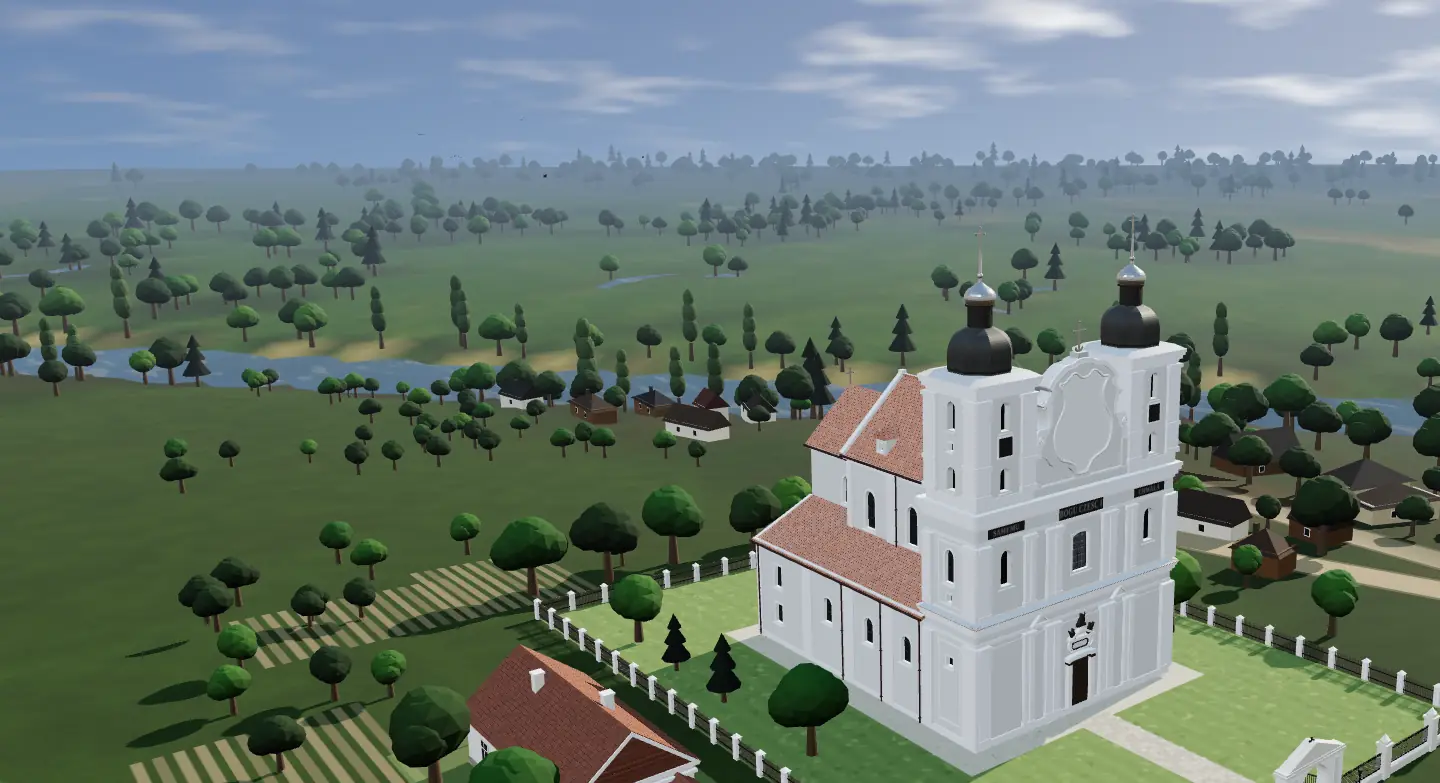
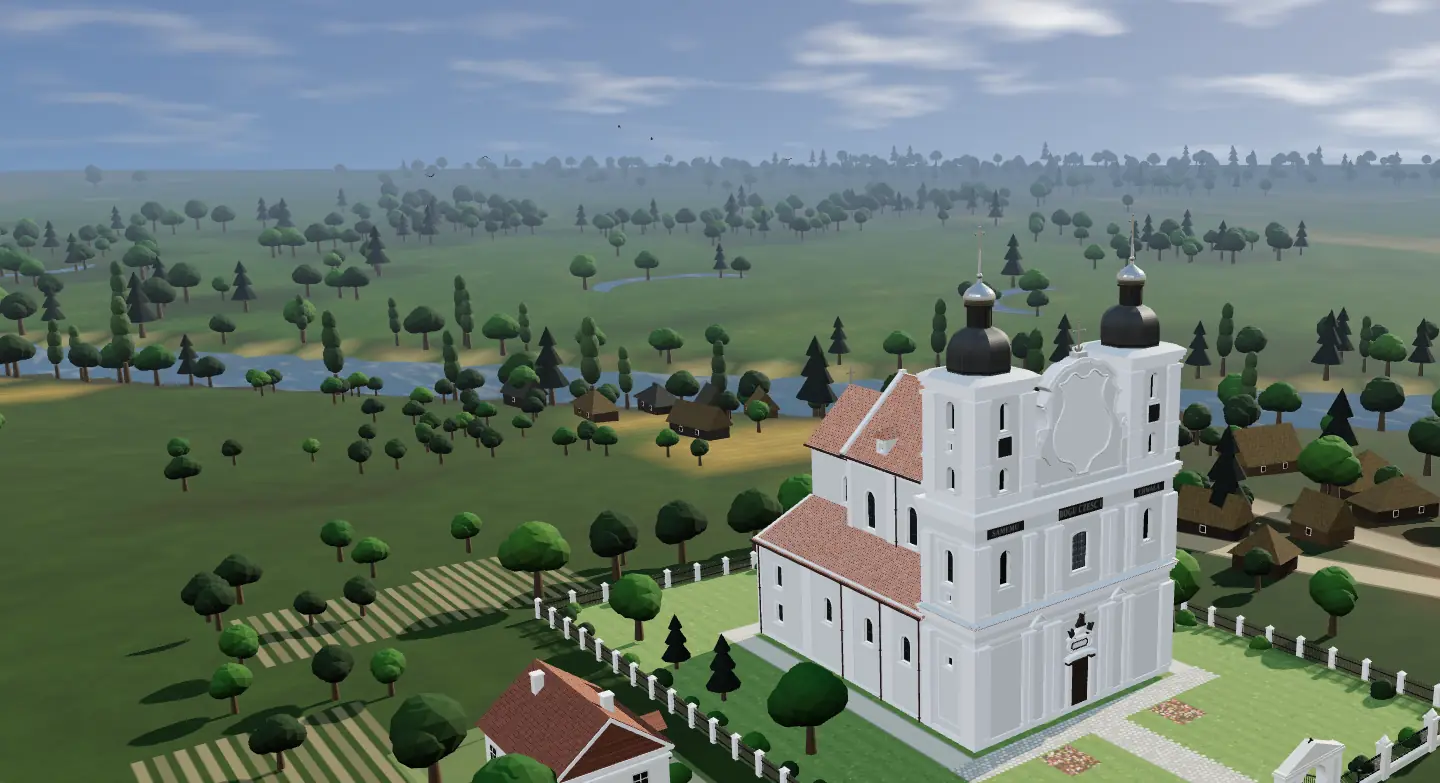
Херо костелу: плавна Горинь, став на ділянці, поля, поліські дерев'яні хати під стріхою, будинок дяка коротший з ганком до костелу, детально промальовані цвинтар і бруківка площі, кущі
Claude-Session: https://claude.ai/code/session_015E5VkhKKERkWtXctkqCkmF

diff --git a/hero-kostel.js b/hero-kostel.js
@@ -32,9 +32,7 @@ function attach(api, o){
     if ((a[1] > z) !== (b[1] > z) && x < (b[0] - a[0])*(z - a[1])/(b[1] - a[1]) + a[0]) c = !c; } return c; }
   /* the Horyn: its middle line from the plan, carried on beyond it both ways */
   var RIV = (function(){
-    var raw = [[-560, 1080], [-330, 1000], [-120, 900], [60, 790], [200, 712], [330, 650], [420, 600], [470, 558], [518.7, 522], [572, 494.6], [625, 466.5], [678.8, 439.4], [733, 413],
-      [787, 386.8], [841, 360], [895, 333], [946.6, 302.7], [997.7, 271], [1048, 239], [1090, 218], [1140, 196], [1180, 172], [1215, 118], [1250, 66], [1300, 22],
-      [1370, -30], [1460, -70], [1570, -90], [1700, -140], [1830, -230], [1960, -300], [2120, -330]];
+    var raw = [[-700, 1120], [-250, 960], [160, 760], [470, 558], [730, 414], [1000, 270], [1250, 95], [1520, -40], [1880, -170], [2300, -230]];   // the plan's line, smoothed
     var P = raw.map(function(p){ return MP(p[0], p[1]); });
     var c = new T.CatmullRomCurve3(P.map(function(p){ return new T.Vector3(p[0], 0, p[1]); }), false, 'centripetal');
     return c.getSpacedPoints(260).map(function(v){ return [v.x, v.z]; });
@@ -54,6 +52,9 @@ function attach(api, o){
   var OXB = [[MP(1300, 300), 34, 2.2, 5.0], [MP(900, 760), 30, 3.4, 6.1], [MP(1500, 420), 26, .2, 3.3], [MP(600, 900), 28, 2.6, 5.6]];
   function oxDist(x, z){ var m = 1e9; OXB.forEach(function(o){ var dx = x - o[0][0], dz = z - o[0][1], a = Math.atan2(dz, dx); if (a < o[2]) a += 6.283;
     if (a > o[2] && a < o[3] || a - 6.283 > o[2] && a - 6.283 < o[3]) m = Math.min(m, Math.abs(Math.hypot(dx, dz) - o[1])); }); return m; }
+  var POND = {x: -28, z: -115, a: 15, b: 4.6};                                       // the pond in the church plot, with a bank of dug earth round it
+  function pondQ(x, z){ return Math.hypot((x - POND.x)/POND.a, (z - POND.z)/POND.b); }
+  function townField(x, z){ return !inPoly(PLOT, x, z) && z < -40 && x > -150 && x < 60 && rivNear(x, z).d - RW/2 > 28; }   // strip fields between the plot and the bank
   function H(x, z){
     var R = rivNear(x, z), e = R.d - RW/2, r = Math.hypot(x - GX, z - GZ), h;
     if (R.side === TOWN){
@@ -64,6 +65,7 @@ function attach(api, o){
       var od = oxDist(x, z); if (od < 12) h -= 1.9*(1 - ss(3, 10, od));
     }
     if (R.d < RW/2 + 2) h = Math.min(h, PL - 2.8*(1 - ss(RW/2 - 9, RW/2 + 1, R.d)));  // the river bed
+    var pq = pondQ(x, z); if (pq < 2.2) h += .7*Math.exp(-Math.pow((pq - 1.35)*3, 2)) - 1.6*(1 - ss(.75, 1.1, pq));
     return h;
   }
   /* the plan's zones: the church plot (gardens and orchard), the yard, the small square, the streets */
@@ -76,7 +78,7 @@ function attach(api, o){
     poly([[64, 0], [80, -120], [96, -300]]), poly([[24.5, 200], [-120, 180], [-300, 160]]), poly([[-6, 420], [-180, 470], [-360, 520]])];
   function roadD(x, z){ var m = 1e9; ROADS.forEach(function(R){ for (var i = 1; i < R.length; i++){ var a = R[i - 1], b = R[i], dx = b[0] - a[0], dz = b[1] - a[1], L = dx*dx + dz*dz,
     k = Math.max(0, Math.min(1, ((x - a[0])*dx + (z - a[1])*dz)/L)); m = Math.min(m, Math.hypot(a[0] + dx*k - x, a[1] + dz*k - z)); } }); return m; }
-  var PLEB = {x: -36, z: -15, len: 18, wid: 9};                                       // beside the church on the north, its long side parallel to it
+  var PLEB = {x: -36, z: -15, len: 12, wid: 8.5};                                    // the sexton's house beside the church on the north, long side parallel to it, porch toward the church
   function keepClear(x, z, m){ m = m || 0;
     return (x > YARD.x0 - 5 - m && x < YARD.x1 + 5 + m && z > YARD.z0 - 6 - m && z < YARD.z1 + 4 + m) || inPoly(SQ, x, z) ||
       (x > PLEB.x - PLEB.wid/2 - 6 - m && x < PLEB.x + PLEB.wid/2 + 5 + m && z > PLEB.z - PLEB.len/2 - 5 - m && z < PLEB.z + PLEB.len/2 + 7 + m); }
@@ -118,14 +120,15 @@ function attach(api, o){
       if (oxDist(x, z) < 12) f = Math.max(f, .6);
       if (e > 640) f = Math.max(f, .85*ss(640, 720, e));                              // the woods on the horizon
     }
-    if (roadD(x, z) < 5 || keepClear(x, z, 3)) f = 0;
+    var rd = roadD(x, z); if (R.side === TOWN && rd > 5 && rd < 10 && Math.hypot(x - GX, z - GZ) < 320) f = Math.max(f, .45);   // trees along the lanes
+    if (rd < 5 || keepClear(x, z, 3) || pondQ(x, z) < 1.7 || (R.side === TOWN && townField(x, z))) f = 0;
     return Math.min(1, f);
   }
 
   /* ── terrain mesh with painted zones ── */
-  var SIZE = 2400, SEG = lite ? 160 : 260, CX = 100, CZ = -200;
+  var SIZE = 2400, SEG = lite ? 200 : 340, CX = 100, CZ = -200;
   var tg = new T.PlaneGeometry(SIZE, SIZE, SEG, SEG); tg.rotateX(-Math.PI/2); tg.translate(CX, 0, CZ);
-  var tp = tg.attributes.position, col = new Float32Array(tp.count*3), C = new T.Color();
+  var tp = tg.attributes.position, col = new Float32Array(tp.count*3), fld = new Float32Array(tp.count), C = new T.Color();
   var cTown = lin('#62763a'), cGard = lin('#7a6b47'), cOrch = lin('#6c8040'), cMead = lin('#6f8c3c'), cMeadY = lin('#94983f'), cMud = lin('#6b5f43'), cFloor = lin('#465230'),
       cField = [lin('#a3954f'), lin('#7c8b42'), lin('#b8a462'), lin('#86904a'), lin('#6e7d3d')], cRoad = lin('#8a7652'), cWet = lin('#4a5c33'), cReed = lin('#7f8a4a'), cSand = lin('#c9b78a');
   for (var i = 0; i < tp.count; i++){
@@ -134,36 +137,37 @@ function attach(api, o){
     if (R.side === TOWN){
       C.copy(cTown);
       if (inPoly(PLOT, x, z)) C.copy(cOrch).lerp(cGard, .2*ss(.5, .7, fbm(x*.03, z*.03)));
+      else if (townField(x, z)){ var kf = Math.floor(hash(Math.floor((z + 3000)/14), Math.floor((x + 3000)/90))*5); C.copy(cField[kf]); fld[i] = 1; }
       else if (hash(Math.floor((x + 2000)/24), Math.floor((z + 2000)/30)) > .6 && Math.hypot(x - GX, z - GZ) > 60) C.lerp(cGard, .35);
     } else {
       C.copy(cMead).lerp(cMeadY, ss(.45, .8, n)*.5); C.lerp(cWet, ss(.55, .75, fbm(x*.008 + 20, z*.008 + 4))*.8);
-      if (e > 60 && e < 650 && fbm(x*.004 + 9, z*.004 + 1) > .52){ var k = Math.floor(hash(Math.floor((x + 3000)/26), Math.floor((z + 3000)/120))*5); C.lerp(cField[k], .85); }
+      if (e > 60 && e < 650 && fbm(x*.004 + 9, z*.004 + 1) > .52){ var k = Math.floor(hash(Math.floor((x + 3000)/26), Math.floor((z + 3000)/120))*5); C.lerp(cField[k], .85); fld[i] = 1; }
       C.lerp(cReed, (1 - ss(4, 16, oxDist(x, z)))*.7);
     }
     if (e < 6 && e > -4) C.lerp(R.side === TOWN ? cMud : cSand, .7*(1 - ss(2, 6, e)));
+    var pq2 = pondQ(x, z); if (pq2 < 1.6) C.lerp(cMud, .5*(1 - ss(1.1, 1.6, pq2)));
     var fr = forest(x, z); C.lerp(cFloor, ss(.45, .8, fr)*.6);
     if (roadD(x, z) < 3.4) C.copy(cRoad).multiplyScalar(.92 + .16*n);
     C.multiplyScalar(.86 + .28*n);
     col[i*3] = C.r; col[i*3 + 1] = C.g; col[i*3 + 2] = C.b;
   }
-  tg.setAttribute('color', new T.BufferAttribute(col, 3)); tg.computeVertexNormals();
+  tg.setAttribute('color', new T.BufferAttribute(col, 3)); tg.setAttribute('aField', new T.BufferAttribute(fld, 1)); tg.computeVertexNormals();
   var terrM = new T.MeshStandardMaterial({vertexColors: true, roughness: 1});
   /* surface detail: grass tussocks, bare patches and furrows drawn from world position, fading with distance */
   terrM.userData.noSnow = true;
   terrM.onBeforeCompile = function(sh){
     sh.uniforms.uWSnow = U.uWSnow; sh.uniforms.uAut = U.uAut;
-    sh.vertexShader = sh.vertexShader.replace('#include <common>', '#include <common>\nvarying vec3 vTW;').replace('#include <worldpos_vertex>', '#include <worldpos_vertex>\nvTW = (modelMatrix*vec4(transformed, 1.0)).xyz;');
-    sh.fragmentShader = sh.fragmentShader.replace('#include <common>', '#include <common>\nvarying vec3 vTW;\nuniform float uWSnow, uAut;\nfloat th(vec2 p){ return fract(sin(dot(p, vec2(127.1, 311.7)))*43758.5453); }\nfloat tn(vec2 p){ vec2 i = floor(p), f = fract(p); f = f*f*(3.0 - 2.0*f); return mix(mix(th(i), th(i + vec2(1, 0)), f.x), mix(th(i + vec2(0, 1)), th(i + vec2(1, 1)), f.x), f.y); }')
+    sh.vertexShader = sh.vertexShader.replace('#include <common>', '#include <common>\nvarying vec3 vTW;\nattribute float aField;\nvarying float vField;').replace('#include <worldpos_vertex>', '#include <worldpos_vertex>\nvTW = (modelMatrix*vec4(transformed, 1.0)).xyz; vField = aField;');
+    sh.fragmentShader = sh.fragmentShader.replace('#include <common>', '#include <common>\nvarying vec3 vTW;\nvarying float vField;\nuniform float uWSnow, uAut;\nfloat th(vec2 p){ return fract(sin(dot(p, vec2(127.1, 311.7)))*43758.5453); }\nfloat tn(vec2 p){ vec2 i = floor(p), f = fract(p); f = f*f*(3.0 - 2.0*f); return mix(mix(th(i), th(i + vec2(1, 0)), f.x), mix(th(i + vec2(0, 1)), th(i + vec2(1, 1)), f.x), f.y); }')
       .replace('#include <color_fragment>', ['#include <color_fragment>',
         'float dd = length(vTW - cameraPosition), fd = 1.0 - smoothstep(60.0, 260.0, dd);',
         'float g1 = tn(vTW.xz*1.7), g2 = tn(vTW.xz*6.3 + 3.1), g3 = tn(vTW.xz*.33 + 7.7);',
         'float tuft = (g1*.6 + g2*.4 - .5)*.34*fd + (g3 - .5)*.22;',
         'diffuseColor.rgb *= 1.0 + tuft;',
         'diffuseColor.rgb = mix(diffuseColor.rgb, diffuseColor.rgb*vec3(1.12, 1.05, .78), smoothstep(.62, .82, g3)*.5);',      // drier, yellower patches
-        'float sv = dot(vTW.xz - vec2(0.0, -15.0), vec2(.62, -.785));',
-        'float fur = abs(sin(sv*.9 + tn(vTW.xz*.05)*4.0));',
-        'float field = step(260.0, sv)*step(sv, 800.0);',
-        'diffuseColor.rgb *= mix(1.0, .9 + .14*fur, field*(1.0 - smoothstep(250.0, 700.0, dd)));',      // furrows in the fields
+        'float fur = abs(sin(vTW.z*1.1 + tn(vTW.xz*.05)*4.0));',
+        'float field = smoothstep(.5, .9, vField);',
+        'diffuseColor.rgb *= mix(1.0, .86 + .2*fur, field*(1.0 - smoothstep(250.0, 900.0, dd)));',      // furrows in the fields
         /* autumn: the grass goes to straw and rust; winter: snow lies everywhere but thins in the furrows and under the trees */
         'diffuseColor.rgb = mix(diffuseColor.rgb, diffuseColor.rgb*vec3(1.42, 1.0, .5) + vec3(.014, .004, 0.0), uAut*(.68 + .32*g3));',
         'float snw = uWSnow*smoothstep(.12, .42, g1*.45 + g3*.55 + .12 - field*fur*.12);',
@@ -192,22 +196,9 @@ function attach(api, o){
     K.lineCap = K.lineJoin = 'round';
     ROADS.forEach(function(R){ K.strokeStyle = 'rgba(120,100,70,.5)'; K.lineWidth = 7.4*px; K.beginPath(); R.forEach(function(p, i){ i ? K.lineTo(X(p[0]), Z(p[1])) : K.moveTo(X(p[0]), Z(p[1])); }); K.stroke();
       K.strokeStyle = '#8f7b58'; K.lineWidth = 6*px; K.stroke(); });
-    /* the small square before the gate: trodden earth, cobbles by the gate, wheel ruts */
-    shape(SQ, '#a08d6c'); speck(-18, 22, 19, 50, ['#8c7a5a', '#b5a283', '#7b6a4e', '#c2b190'], 4200, .22, function(x, z){ return inPoly(SQ, x, z); });
-    rect(-7, YARD.z1, 7, YARD.z1 + 6, '#a39985'); speck(-7, YARD.z1, 7, YARD.z1 + 6, ['#b9ae98', '#958a76'], 900, .18);
-    K.strokeStyle = 'rgba(92,76,52,.4)'; K.lineWidth = .32*px;
-    for (var r2 = 0; r2 < 5; r2++){ var zr = 31 + r2*3.6; K.beginPath(); K.moveTo(X(-17), Z(zr + 6)); K.bezierCurveTo(X(-6), Z(zr + 2), X(6), Z(zr - 1), X(18), Z(zr - 4)); K.stroke(); }
-    /* the churchyard: grass, a stone path to the portal, gravel round the church */
-    rect(YARD.x0, YARD.z0, YARD.x1, YARD.z1, '#5d7136');
-    for (var i = 0; i < 26; i++) rect(YARD.x0 + i*(YARD.x1 - YARD.x0)/26, YARD.z0, YARD.x0 + (i + .5)*(YARD.x1 - YARD.x0)/26, YARD.z1, 'rgba(255,255,220,.03)');
-    speck(YARD.x0, YARD.z0, YARD.x1, YARD.z1, ['#4f6430', '#6c8040', '#7a8a48'], 2600, .3);
-    K.fillStyle = '#b3a68c'; K.beginPath(); K.rect(X(-13.4), Z(-32.9), 26.8*px, 35.2*px); K.fill();
-    speck(-13.4, -32.9, 13.4, 2.3, ['#9c907a', '#c6baa0', '#8a7f6a'], 2200, .12);
-    rect(-1.7, 1.5, 1.7, YARD.z1 + .4, '#a39985');
-    for (var zz = 1.6; zz < YARD.z1 + .3; zz += .55) for (var xx = -1.6 + (Math.round(zz/.55) % 2)*.27; xx < 1.6; xx += .55){ K.fillStyle = Math.random() < .5 ? '#b9ae98' : '#958a76'; K.fillRect(X(xx) + 1, Z(zz) + 1, .5*px - 2, .5*px - 2); }
     /* the plebania's yard and the path to its porch */
     rect(PLEB.x - 9, PLEB.z - 14, PLEB.x + 8, PLEB.z + 14, 'rgba(104,120,62,.6)');
-    rect(PLEB.x + 1.6, PLEB.z + PLEB.len/2, PLEB.x + 3.8, YARD.z1 + 6, '#9a8a6c');
+    rect(PLEB.x + PLEB.wid/2 + 1.4, PLEB.z - 1.2, PLEB.x + PLEB.wid/2 + 3.2, YARD.z1 + 6, '#9a8a6c');
     K.save(); K.globalCompositeOperation = 'destination-in';                          // soft outer edge
     var rg = K.createRadialGradient(CW/2, CW/2, CW*.4, CW/2, CW/2, CW*.5); rg.addColorStop(0, '#000'); rg.addColorStop(1, 'rgba(0,0,0,0)'); K.fillStyle = rg; K.fillRect(0, 0, CW, CW); K.restore();
     var g = new T.PlaneGeometry(S, S, N, N); g.rotateX(-Math.PI/2); g.translate(ox, 0, oz);
@@ -246,6 +237,52 @@ function attach(api, o){
       '  #include <encodings_fragment>',
       '}'].join('\n')
   });
+  /* ── the churchyard and the square, finely painted: mown grass darker under the walls and the fence, a paved apron before the
+     facade and a stone path from the gate, gravel walks round the church edged with stones, flower beds by the portal; the square
+     cobbled, worn to earth in the middle where the carts stand ── */
+  (function(){
+    var x0 = -34, x1 = 34, z0 = -58, z1 = 54, CW = lite ? 1536 : 2048, CH = Math.round(CW*(z1 - z0)/(x1 - x0)), cv = document.createElement('canvas'); cv.width = CW; cv.height = CH;
+    var K = cv.getContext('2d'), px = CW/(x1 - x0);
+    function X(x){ return (x - x0)*px; } function Z(z){ return (z - z0)*px; }
+    function rect(a, b, c, d, col){ K.fillStyle = col; K.fillRect(X(a), Z(b), (c - a)*px, (d - b)*px); }
+    function dots(a, b, c, d, cols, n, r, test){ for (var i = 0; i < n; i++){ var x = a + Math.random()*(c - a), z = b + Math.random()*(d - b); if (test && !test(x, z)) continue;
+      K.fillStyle = cols[i % cols.length]; K.globalAlpha = .3 + Math.random()*.5; K.beginPath(); K.ellipse(X(x), Z(z), r*px*(.5 + Math.random()), r*px*(.4 + Math.random()*.6), Math.random()*3, 0, 6.283); K.fill(); } K.globalAlpha = 1; }
+    function stones(a, b, c, d, sz, cols, mortar){ rect(a, b, c, d, mortar);
+      for (var z = b; z < d; z += sz*.9) for (var x = a + (Math.round((z - b)/(sz*.9)) % 2)*sz*.45; x < c; x += sz){
+        K.fillStyle = cols[Math.floor(Math.random()*cols.length)]; K.beginPath(); K.ellipse(X(x + sz*.45), Z(z + sz*.42), sz*.42*px*(.85 + Math.random()*.2), sz*.38*px*(.85 + Math.random()*.2), Math.random(), 0, 6.283); K.fill(); } }
+    /* the square: cobbles, a worn earthen middle with ruts, grass at the edges */
+    K.save(); K.beginPath(); SQ.forEach(function(p, i){ i ? K.lineTo(X(p[0]), Z(p[1])) : K.moveTo(X(p[0]), Z(p[1])); }); K.closePath(); K.clip();
+    stones(-30, 20, 30, 54, .32, ['#a39a88', '#8f8676', '#b3aa96', '#7f786a', '#9c9282'], '#6e665a');
+    var g0 = K.createRadialGradient(X(1), Z(38), 0, X(1), Z(38), 13*px); g0.addColorStop(0, 'rgba(140,118,86,.92)'); g0.addColorStop(.7, 'rgba(140,118,86,.55)'); g0.addColorStop(1, 'rgba(140,118,86,0)');
+    K.fillStyle = g0; K.fillRect(0, 0, CW, CH);
+    K.strokeStyle = 'rgba(80,64,44,.45)'; K.lineWidth = .28*px; [[-1.9, 0], [-.6, 0], [1.4, 1], [2.7, 1]].forEach(function(q){ K.beginPath(); K.moveTo(X(-18), Z(46 + q[0])); K.bezierCurveTo(X(-4), Z(40 + q[0]), X(4), Z(33 + q[0]), X(19), Z(27 + q[0])); K.stroke(); });
+    K.restore();
+    /* the churchyard */
+    rect(YARD.x0, YARD.z0, YARD.x1, YARD.z1, '#5f7437');
+    for (var i = 0; i < 30; i++) rect(YARD.x0 + i*(YARD.x1 - YARD.x0)/30, YARD.z0, YARD.x0 + (i + .5)*(YARD.x1 - YARD.x0)/30, YARD.z1, 'rgba(240,255,200,.035)');   // mowing
+    dots(YARD.x0, YARD.z0, YARD.x1, YARD.z1, ['#4e6330', '#6b8040', '#7d8f4a', '#56703a'], 9000, .16);
+    dots(YARD.x0, YARD.z0, YARD.x1, YARD.z1, ['#f2efe0', '#e6d27a', '#c9b6d8'], 700, .05);   // daisies, buttercups
+    ['x0', 'x1'].forEach(function(e){ var gx = YARD[e], gr = K.createLinearGradient(X(gx), 0, X(gx + (e === 'x0' ? 2.5 : -2.5)), 0); gr.addColorStop(0, 'rgba(30,40,18,.35)'); gr.addColorStop(1, 'rgba(30,40,18,0)'); K.fillStyle = gr; K.fillRect(Math.min(X(gx), X(gx + (e === 'x0' ? 2.5 : -2.5))), Z(YARD.z0), 2.5*px, (YARD.z1 - YARD.z0)*px); });
+    /* gravel walks round the church, edged with stones */
+    function walk(a, b, c, d){ rect(a, b, c, d, '#b5aa92'); dots(a, b, c, d, ['#a0957e', '#c8bea6', '#8f8570'], Math.round((c - a)*(d - b)*14), .07);
+      K.strokeStyle = '#8a8374'; K.lineWidth = .14*px; K.strokeRect(X(a), Z(b), (c - a)*px, (d - b)*px); }
+    walk(-13.9, -33.2, -11.6, 1); walk(11.6, -33.2, 13.9, 1); walk(-13.9, -33.2, 13.9, -30.9);
+    stones(-14, .6, 14, 3.2, .45, ['#b8b0a0', '#a69e8e', '#c4bcaa'], '#8d8676');                              // the apron before the facade
+    stones(-1.8, 3.2, 1.8, YARD.z1 + .3, .45, ['#b8b0a0', '#a69e8e', '#c4bcaa'], '#8d8676');                 // the path from the gate
+    [-1, 1].forEach(function(sd){ var bx = sd*4.6; rect(Math.min(bx, bx + sd*3.2), 3.6, Math.max(bx, bx + sd*3.2), 7.2, '#5a4632');   // flower beds by the portal
+      dots(Math.min(bx, bx + sd*3.2), 3.6, Math.max(bx, bx + sd*3.2), 7.2, ['#c9563f', '#e3c26a', '#efe6d4', '#b8506e', '#5f7a3a'], 260, .12); });
+    var g = new T.PlaneGeometry(x1 - x0, z1 - z0, lite ? 60 : 90, lite ? 100 : 150); g.rotateX(-Math.PI/2); g.translate((x0 + x1)/2, 0, (z0 + z1)/2);
+    var p = g.attributes.position; for (var j = 0; j < p.count; j++) p.setY(j, H(p.getX(j), p.getZ(j)) + .07);
+    g.computeVertexNormals();
+    var tx = new T.CanvasTexture(cv); tx.encoding = T.sRGBEncoding; tx.anisotropy = 8;
+    var mask = document.createElement('canvas'); mask.width = CW >> 2; mask.height = CH >> 2; var MK = mask.getContext('2d'); MK.fillStyle = '#000'; MK.fillRect(0, 0, mask.width, mask.height);
+    MK.fillStyle = '#fff'; MK.beginPath(); SQ.forEach(function(q, i){ var a = X(q[0])/4, b = Z(q[1])/4; i ? MK.lineTo(a, b) : MK.moveTo(a, b); }); MK.closePath(); MK.fill();
+    MK.fillRect(X(YARD.x0)/4, Z(YARD.z0)/4, (YARD.x1 - YARD.x0)*px/4, (YARD.z1 - YARD.z0)*px/4); MK.fillRect(X(-8)/4, Z(YARD.z1)/4, 16*px/4, 6*px/4);
+    var mt = new T.CanvasTexture(mask);
+    var m = new T.Mesh(g, new T.MeshStandardMaterial({map: tx, alphaMap: mt, transparent: true, depthWrite: false, roughness: 1, polygonOffset: true, polygonOffsetFactor: -3, polygonOffsetUnits: -3}));
+    m.receiveShadow = true; m.renderOrder = 1; scene.add(m);
+  })();
+
   /* the Horyn: a ribbon along its middle line; still water in the old channels on the far side */
   (function(){
     var pos = [], uv = [], idx = [], n = RIV.length, W = RW + 6;
@@ -257,6 +294,9 @@ function attach(api, o){
     var g = new T.BufferGeometry(); g.setAttribute('position', new T.Float32BufferAttribute(pos, 3)); g.setAttribute('uv', new T.Float32BufferAttribute(uv, 2)); g.setIndex(idx);
     var m = new T.Mesh(g, waterM); m.renderOrder = 2; scene.add(m);
     var pm = waterM.clone(); pm.uniforms = Object.assign({}, waterM.uniforms, {uFlow: {value: .05}});
+    var pg = new T.CircleGeometry(1, 40); pg.rotateX(-Math.PI/2); var pu = pg.attributes.uv, pp = pg.attributes.position;
+    for (var q = 0; q < pu.count; q++) pu.setX(q, .5 - .5*Math.hypot(pp.getX(q), pp.getZ(q)));
+    var pond = new T.Mesh(pg, pm); pond.scale.set(POND.a*1.02, 1, POND.b*1.02); pond.position.set(POND.x, H(POND.x + POND.a*2.4, POND.z) - .75, POND.z); pond.renderOrder = 2; scene.add(pond);
     OXB.forEach(function(o){
       var segs = 64, W2 = 13, P = [], U = [], I = [];
       for (var k = 0; k <= segs; k++){ var an = o[2] + (o[3] - o[2])*k/segs, w = W2*(.35 + .65*Math.sin(Math.PI*k/segs)), ca = Math.cos(an), sa = Math.sin(an);
@@ -294,24 +334,39 @@ function attach(api, o){
   function gableGeo(){ var s = new T.Shape([new T.Vector2(-.5, 0), new T.Vector2(.5, 0), new T.Vector2(0, 1)]); var g = new T.ExtrudeGeometry(s, {depth: 1, bevelEnabled: false}); g.translate(0, 0, -.5); return g; }
   var HIP = hipGeo(), GAB = gableGeo();
 
-  /* ── the town: whitewashed or log houses under shingle, thatch or tile, mostly hidden in their gardens ── */
+  /* ── the town: Polesian houses of logs under thatch or shingle, low, with small windows in white frames, mostly hidden in their gardens ── */
   (function(){
-    var walls = new Batch(), roofs = new Batch(), WALL = ['#e8e1d0', '#ddd2bb', '#a88a64', '#c7b394', '#efe9dc', '#9c7d58'].map(lin), ROOF = ['#5b524a', '#7a6646', '#8d5a40', '#4f4b47', '#6e5a44'].map(lin);
-    var dark = lin('#2a2622'), trimC = lin('#f0ebe0');
+    var walls = new Batch(), roofs = new Batch(), trims = new Batch(), WALL = ['#8c7354', '#7d6649', '#98805c', '#73604a', '#9c8664'].map(lin), ROOF = ['#a8956a', '#9a8862', '#8a8068', '#7c766a', '#a3916a'].map(lin);
+    var dark = lin('#1f1c19'), trimC = lin('#e8e2d4'), board = lin('#5a4834');
     HOUSES.forEach(function(q){
-      var y = H(q.x, q.z), wc = WALL[Math.floor(q.k*WALL.length)], rc = ROOF[Math.floor(hash(q.x, q.z)*ROOF.length)];
-      walls.add(BOX, mtx(q.x, y + q.h/2 - .4, q.z, -q.a, q.w, q.h + .8, q.d), wc);
-      var gable = q.k > .45, rh = q.d*(gable ? .62 : .5);
-      if (gable) roofs.add(GAB, mtx(q.x, y + q.h - .4, q.z, -q.a + Math.PI/2, q.d*1.16, rh, q.w*1.08), rc);
-      else roofs.add(HIP, mtx(q.x, y + q.h - .4, q.z, -q.a, q.w*1.12, rh, q.d*1.18), rc);
-      var ca = Math.cos(-q.a), sa = Math.sin(-q.a), nwin = Math.max(1, Math.round(q.w/4) - 1);
-      [-1, 1].forEach(function(side){ for (var k = 0; k < nwin; k++){ var lx = (k - (nwin - 1)/2)*q.w/(nwin + .6), lz = side*(q.d/2 + .02);
-        walls.add(BOX, mtx(q.x + lx*ca + lz*sa, y + q.h*.5, q.z - lx*sa + lz*ca, -q.a, .95, 1.05, .08), trimC);
-        walls.add(BOX, mtx(q.x + lx*ca + (lz + side*.03)*sa, y + q.h*.5, q.z - lx*sa + (lz + side*.03)*ca, -q.a, .7, .8, .06), dark); } });
-      if (q.k > .3) walls.add(BOX, mtx(q.x + q.w*.2*ca, y + q.h + rh*.6, q.z - q.w*.2*sa, -q.a, .55, 1.6, .55), lin('#8a7a6a'));   // chimney
+      var y = H(q.x, q.z), wc = WALL[Math.floor(q.k*WALL.length)], rc = ROOF[Math.floor(hash(q.x, q.z)*ROOF.length)], w = Math.min(q.w, 10), d = Math.min(q.d, 6.2), hh = 2.5;
+      walls.add(BOX, mtx(q.x, y + hh/2 - .35, q.z, -q.a, w, hh + .7, d), wc);
+      var hip = q.k < .6, rh = d*(hip ? .72 : .78);                                    // steep roofs, mostly hipped thatch
+      if (hip) roofs.add(HIP, mtx(q.x, y + hh - .4, q.z, -q.a, w*1.16, rh, d*1.26), rc);
+      else { roofs.add(GAB, mtx(q.x, y + hh - .4, q.z, -q.a + Math.PI/2, d*1.22, rh, w*1.1), rc);
+        [-1, 1].forEach(function(sd){ var lx = sd*(w/2 + .02); trims.add(GAB, mtx(q.x + lx*Math.cos(-q.a), y + hh - .38, q.z - lx*Math.sin(-q.a), -q.a + Math.PI/2, d*.98, rh*.9, .05), board); }); }
+      var ca = Math.cos(-q.a), sa = Math.sin(-q.a), nwin = Math.max(1, Math.round(w/3.4) - 1);
+      [-1, 1].forEach(function(side){ for (var k = 0; k < nwin; k++){ var lx = (k - (nwin - 1)/2)*w/(nwin + .4), lz = side*(d/2 + .02);
+        trims.add(BOX, mtx(q.x + lx*ca + lz*sa, y + hh*.52, q.z - lx*sa + lz*ca, -q.a, .85, .95, .07), trimC);
+        trims.add(BOX, mtx(q.x + lx*ca + (lz + side*.03)*sa, y + hh*.52, q.z - lx*sa + (lz + side*.03)*ca, -q.a, .6, .72, .05), dark); } });
+      if (q.k > .25) trims.add(BOX, mtx(q.x + w*.18*ca, y + hh + rh*.62, q.z - w*.18*sa, -q.a, .5, 1.3, .5), lin('#8a8070'));   // a chimney of clay
     });
-    var m1 = new T.MeshStandardMaterial({vertexColors: true, roughness: .92}), m2 = new T.MeshStandardMaterial({vertexColors: true, roughness: .85, flatShading: true});
-    walls.mesh(m1); roofs.mesh(m2);
+    /* logs: a groove every 22 cm, each log its own shade; thatch: combed straw, darker in the courses */
+    var wm = new T.MeshStandardMaterial({vertexColors: true, roughness: .95});
+    wm.onBeforeCompile = function(sh){
+      sh.vertexShader = sh.vertexShader.replace('#include <common>', '#include <common>\nvarying vec3 vLW;').replace('#include <begin_vertex>', '#include <begin_vertex>\nvLW = (modelMatrix*vec4(transformed, 1.0)).xyz;');
+      sh.fragmentShader = sh.fragmentShader.replace('#include <common>', '#include <common>\nvarying vec3 vLW;\nfloat lh(float n){ return fract(sin(n)*43758.5453); }')
+        .replace('#include <color_fragment>', '#include <color_fragment>\nfloat lc = vLW.y/.22, lr = floor(lc), lv = fract(lc);\ndiffuseColor.rgb *= (.62 + .38*sin(lv*3.14159))*(.86 + .26*lh(lr*7.1 + floor(vLW.x*.2 + vLW.z*.2)));');
+    };
+    wm.customProgramCacheKey = function(){ return 'logs'; };
+    var rm = new T.MeshStandardMaterial({vertexColors: true, roughness: .95, flatShading: true});
+    rm.onBeforeCompile = function(sh){
+      sh.vertexShader = sh.vertexShader.replace('#include <common>', '#include <common>\nvarying vec3 vRW;').replace('#include <begin_vertex>', '#include <begin_vertex>\nvRW = (modelMatrix*vec4(transformed, 1.0)).xyz;');
+      sh.fragmentShader = sh.fragmentShader.replace('#include <common>', '#include <common>\nvarying vec3 vRW;\nfloat rh2(vec2 p){ return fract(sin(dot(p, vec2(127.1, 311.7)))*43758.5453); }')
+        .replace('#include <color_fragment>', '#include <color_fragment>\nfloat st = rh2(floor(vec2(vRW.x*9.0 + vRW.z*9.0, vRW.y*1.2)));\nfloat course = fract(vRW.y/.55);\ndiffuseColor.rgb *= (.8 + .3*st)*(.78 + .22*smoothstep(0.0, .3, course));');
+    };
+    rm.customProgramCacheKey = function(){ return 'thatch'; };
+    walls.mesh(wm); roofs.mesh(rm); trims.mesh(new T.MeshStandardMaterial({vertexColors: true, roughness: .85}));
   })();
 
   /* ── a few peasant carts by the gate, as on the photograph of the square: a four-wheeled cart with ladder sides on spoked wheels,
@@ -351,9 +406,8 @@ function attach(api, o){
     wb.mesh(new T.MeshStandardMaterial({vertexColors: true, roughness: .85}));
   })();
 
-  /* ── the plebania: a stone house under a tiled roof beside the front of the church, its long side parallel to the church and its
-     gable to the square — a pediment with two round windows, windows below, and on the right a porch with its own little roof
-     on posts, as on the houses of the town (as it was before the later wing on the left) ── */
+  /* ── the sexton's house: a plastered house under a tiled roof on the north side of the church, its long side parallel to it,
+     the gable with its pediment and two round windows to the square, and the porch with its own little roof on posts toward the church ── */
   (function(){
     var P = PLEB, y0 = H(P.x, P.z), WH = 4.3, zf = P.z + P.len/2, zb = P.z - P.len/2, hw = P.wid/2, g = new T.Group(); g.position.set(0, y0, 0); scene.add(g);
     var wallM = new T.MeshStandardMaterial({color: '#ece5d7', roughness: .9}), trimM = new T.MeshStandardMaterial({color: '#f7f3ea', roughness: .8}),
@@ -390,18 +444,20 @@ function attach(api, o){
       var mb = bx(.07, h, .08, fx + nx*.06, y, fz + nz*.06, frameM); mb.rotation.y = ry; mb.castShadow = false;
       var tb = bx(w, .07, .08, fx + nx*.06, y + h*.18, fz + nz*.06, frameM); tb.rotation.y = ry; tb.castShadow = false;
     }
-    win('f', -3.4, 2.3, 1.1, 1.5); win('f', -.9, 2.3, 1.1, 1.5); win('f', 1.4, 2.75, 1.2, .55);
-    for (var k = -2; k <= 2; k++){ win('e', k*2.7, 2.3, 1.05, 1.5); if (k) win('w', k*2.7, 2.3, 1.05, 1.5); }
-    /* the porch: a door on the right of the gable under a little gabled roof on four posts, with wooden steps */
-    var px = P.x + 3.2;
-    bx(1.15, 2.3, .1, px, 1.15 + .3, zf + .05, woodM).castShadow = false;
-    bx(1.45, 2.55, .12, px, 1.3 + .3, zf + .03, frameM);
-    gableRoof(2.5, 2.4, .95, px, 3.05, zf + 1.15);
-    var pt = new T.Shape([new T.Vector2(-1.15, 0), new T.Vector2(1.15, 0), new T.Vector2(0, .85)]); pt.holes.push(new T.Path([new T.Vector2(-.9, .1), new T.Vector2(.9, .1), new T.Vector2(0, .66)]));
-    var pg = new T.ExtrudeGeometry(pt, {depth: .08, bevelEnabled: false}); pg.translate(px, 3.05, zf + 2.3); g.add(new T.Mesh(pg, woodM));   // the little gable's boards
-    [[-1, 1], [1, 1], [-1, .05], [1, .05]].forEach(function(q){ bx(.13, 2.75, .13, px + q[0]*1.0, 1.65, zf + q[1]*2.2, woodM); });
-    [[-1], [1]].forEach(function(q){ bx(.06, .06, 2.2, px + q[0]*1.0, 1.25, zf + 1.1, woodM); bx(.06, .9, .06, px + q[0]*1.0, .85, zf + 1.6, woodM); });
-    bx(2.2, .2, 2.4, px, .4, zf + 1.15, woodM); bx(1.6, .2, .5, px, .15, zf + 2.55, woodM);
+    win('f', -2.0, 2.3, 1.05, 1.45); win('f', 2.0, 2.3, 1.05, 1.45);
+    [-4.3, -2.2, 2.2, 4.3].forEach(function(u){ win('e', u, 2.3, 1.0, 1.45); });
+    [-4.3, -1.45, 1.45, 4.3].forEach(function(u){ win('w', u, 2.3, 1.0, 1.45); });
+    /* the porch, toward the church: a door in the middle of the long side under a little gabled roof on four posts, wooden steps */
+    var pg = new T.Group(); pg.position.set(P.x + hw, 0, P.z); pg.rotation.y = Math.PI/2; g.add(pg);
+    function pb(w, h, d, x, y, z, m){ var o = new T.Mesh(new T.BoxGeometry(w, h, d), m); o.position.set(x, y, z); o.castShadow = o.receiveShadow = true; pg.add(o); return o; }
+    pb(1.1, 2.25, .1, 0, 1.45, .05, woodM).castShadow = false; pb(1.4, 2.5, .1, 0, 1.55, .02, frameM);
+    var rs = new T.Shape([new T.Vector2(-1.3, 0), new T.Vector2(1.3, 0), new T.Vector2(0, .95)]), rg2 = new T.ExtrudeGeometry(rs, {depth: 2.5, bevelEnabled: false});
+    var pr = new T.Mesh(rg2, roofM); pr.position.set(0, 3.05, -.1); pr.castShadow = true; pg.add(pr);
+    var tri2 = new T.Shape([new T.Vector2(-1.15, 0), new T.Vector2(1.15, 0), new T.Vector2(0, .82)]); tri2.holes.push(new T.Path([new T.Vector2(-.88, .1), new T.Vector2(.88, .1), new T.Vector2(0, .64)]));
+    var tb2 = new T.Mesh(new T.ExtrudeGeometry(tri2, {depth: .07, bevelEnabled: false}), woodM); tb2.position.set(0, 3.07, 2.3); pg.add(tb2);
+    [[-1, 2.25], [1, 2.25], [-1, .12], [1, .12]].forEach(function(q){ pb(.13, 2.75, .13, q[0]*1.0, 1.65, q[1], woodM); });
+    [-1, 1].forEach(function(sd){ pb(.06, .06, 2.1, sd*1.0, 1.25, 1.2, woodM); for (var k = 0; k < 5; k++) pb(.04, .55, .04, sd*1.0, .95, .4 + k*.42, woodM); });
+    pb(2.2, .22, 2.4, 0, .45, 1.2, woodM); pb(1.5, .2, .5, 0, .17, 2.6, woodM);
     [[-2.4, -3], [2.2, 3.4]].forEach(function(c){ bx(.7, 1.6, .7, P.x + c[0]*.5, WH + rh*.72 + .4, P.z + c[1], wallM); bx(.86, .14, .86, P.x + c[0]*.5, WH + rh*.72 + 1.25, P.z + c[1], trimM); });   // chimneys
   })();
 
@@ -500,7 +556,7 @@ function attach(api, o){
   var crownM = new T.MeshStandardMaterial({roughness: .9, flatShading: true}); windy(crownM, .05, true);
   var conM = new T.MeshStandardMaterial({roughness: .95, flatShading: true}); windy(conM, .025);
   var trunkM = new T.MeshStandardMaterial({color: '#4a3826', roughness: 1});
-  var list = {blob: [], cone: [], pop: []};
+  var list = {blob: [], cone: [], pop: [], bush: []};
   function add(kind, x, z, s){ list[kind].push([x, H(x, z), z, s*1.22]); }            // fuller crowns: in this view the trees stand in masses
   /* the town's trees, the belts along the banks, clumps on the flood-plain and the far woods */
   var step = lite ? 12 : 8, rnd = (function(seed){ return function(){ seed = (seed*16807) % 2147483647; return (seed - 1)/2147483646; }; })(1740);
@@ -516,7 +572,7 @@ function attach(api, o){
   /* the church plot: fruit trees in loose groups among the beds */
   for (var k3 = 0; k3 < (lite ? 500 : 1100); k3++){
     var x3 = -140 + rnd()*200, z3 = -240 + rnd()*300;
-    if (!inPoly(PLOT, x3, z3) || keepClear(x3, z3, 3) || fbm(x3*.03 + 5, z3*.03 + 1) < .44) continue;
+    if (!inPoly(PLOT, x3, z3) || keepClear(x3, z3, 3) || pondQ(x3, z3) < 1.8 || fbm(x3*.03 + 5, z3*.03 + 1) < .44) continue;
     add('blob', x3, z3, 1.0 + rnd()*.45);
   }
   /* yards: a fruit tree or two beside every house */
@@ -527,6 +583,10 @@ function attach(api, o){
   [[YARD.x1 - 4.5, -6, 2.4], [YARD.x0 + 4.5, -8, 2.1], [YARD.x0 + 4.5, -36, 1.9], [YARD.x1 - 4.5, -38, 1.9]].forEach(function(q){ add('blob', q[0], q[1], q[2]); });
   [[YARD.x1 - 4, -18, 1.25], [YARD.x1 - 3.8, -27, 1.1], [YARD.x0 + 4, -20, 1.2], [YARD.x0 + 4, -28, 1.05]].forEach(function(q){ add('cone', q[0], q[1], q[2]); });
   for (var bx2 = YARD.x0 + 3; bx2 <= YARD.x1 - 3; bx2 += 8) add('blob', bx2 + (rnd() - .5)*2, YARD.z0 - 5 - rnd()*3, 2.0 + rnd()*.5);
+  /* lilac and elder along the inside of the fences, a few by the sexton's house */
+  for (var bz = YARD.z0 + 3; bz < YARD.z1 - 6; bz += 3.2 + rnd()*2.5){ if (rnd() < .7) add('bush', YARD.x0 + 1.2 + rnd()*.6, bz, .55 + rnd()*.3); if (rnd() < .7) add('bush', YARD.x1 - 1.2 - rnd()*.6, bz, .55 + rnd()*.3); }
+  for (var bx3 = YARD.x0 + 3; bx3 < YARD.x1 - 3; bx3 += 3 + rnd()*2.5) if (rnd() < .6) add('bush', bx3, YARD.z0 + 1.3, .55 + rnd()*.3);
+  [[-9, YARD.z1 - 1.4], [9, YARD.z1 - 1.4], [-15, YARD.z1 - 1.4], [15.5, YARD.z1 - 1.4], [PLEB.x + 1, PLEB.z + PLEB.len/2 + 2.5], [PLEB.x - 3, PLEB.z + PLEB.len/2 + 2.2], [PLEB.x + PLEB.wid/2 + 1.5, PLEB.z + 4]].forEach(function(q){ add('bush', q[0], q[1], .6 + rnd()*.25); });
   [[PLEB.x - 8, PLEB.z - 6], [PLEB.x - 7, PLEB.z + 6], [YARD.x1 + 7, 4], [YARD.x1 + 8, -20], [-21, 49], [21, 47]].forEach(function(q){ add('blob', q[0], q[1], 1.8 + rnd()*.5); });
   function instance(kind, geo, mat, colors, trunkH, crownY, cast){
     var L = list[kind]; if (!L.length) return;
@@ -544,6 +604,7 @@ function attach(api, o){
   instance('blob', blobCrown(), crownM, LEAF, 1.15, .8, true);
   instance('cone', coneCrown(), conM, CON, .9, 1.0, true);
   instance('pop', poplarCrown(), crownM, [POP, lin('#71865c')], 1.2, 1.0, true);
+  instance('bush', blobCrown(), crownM, LEAF, .05, .55, true);
 
   /* ── lanterns by the gate, round the square and along the street: posts by day, warm pools of light at dusk and night ── */
   var lampsK = 0, lanterns = (function(){
